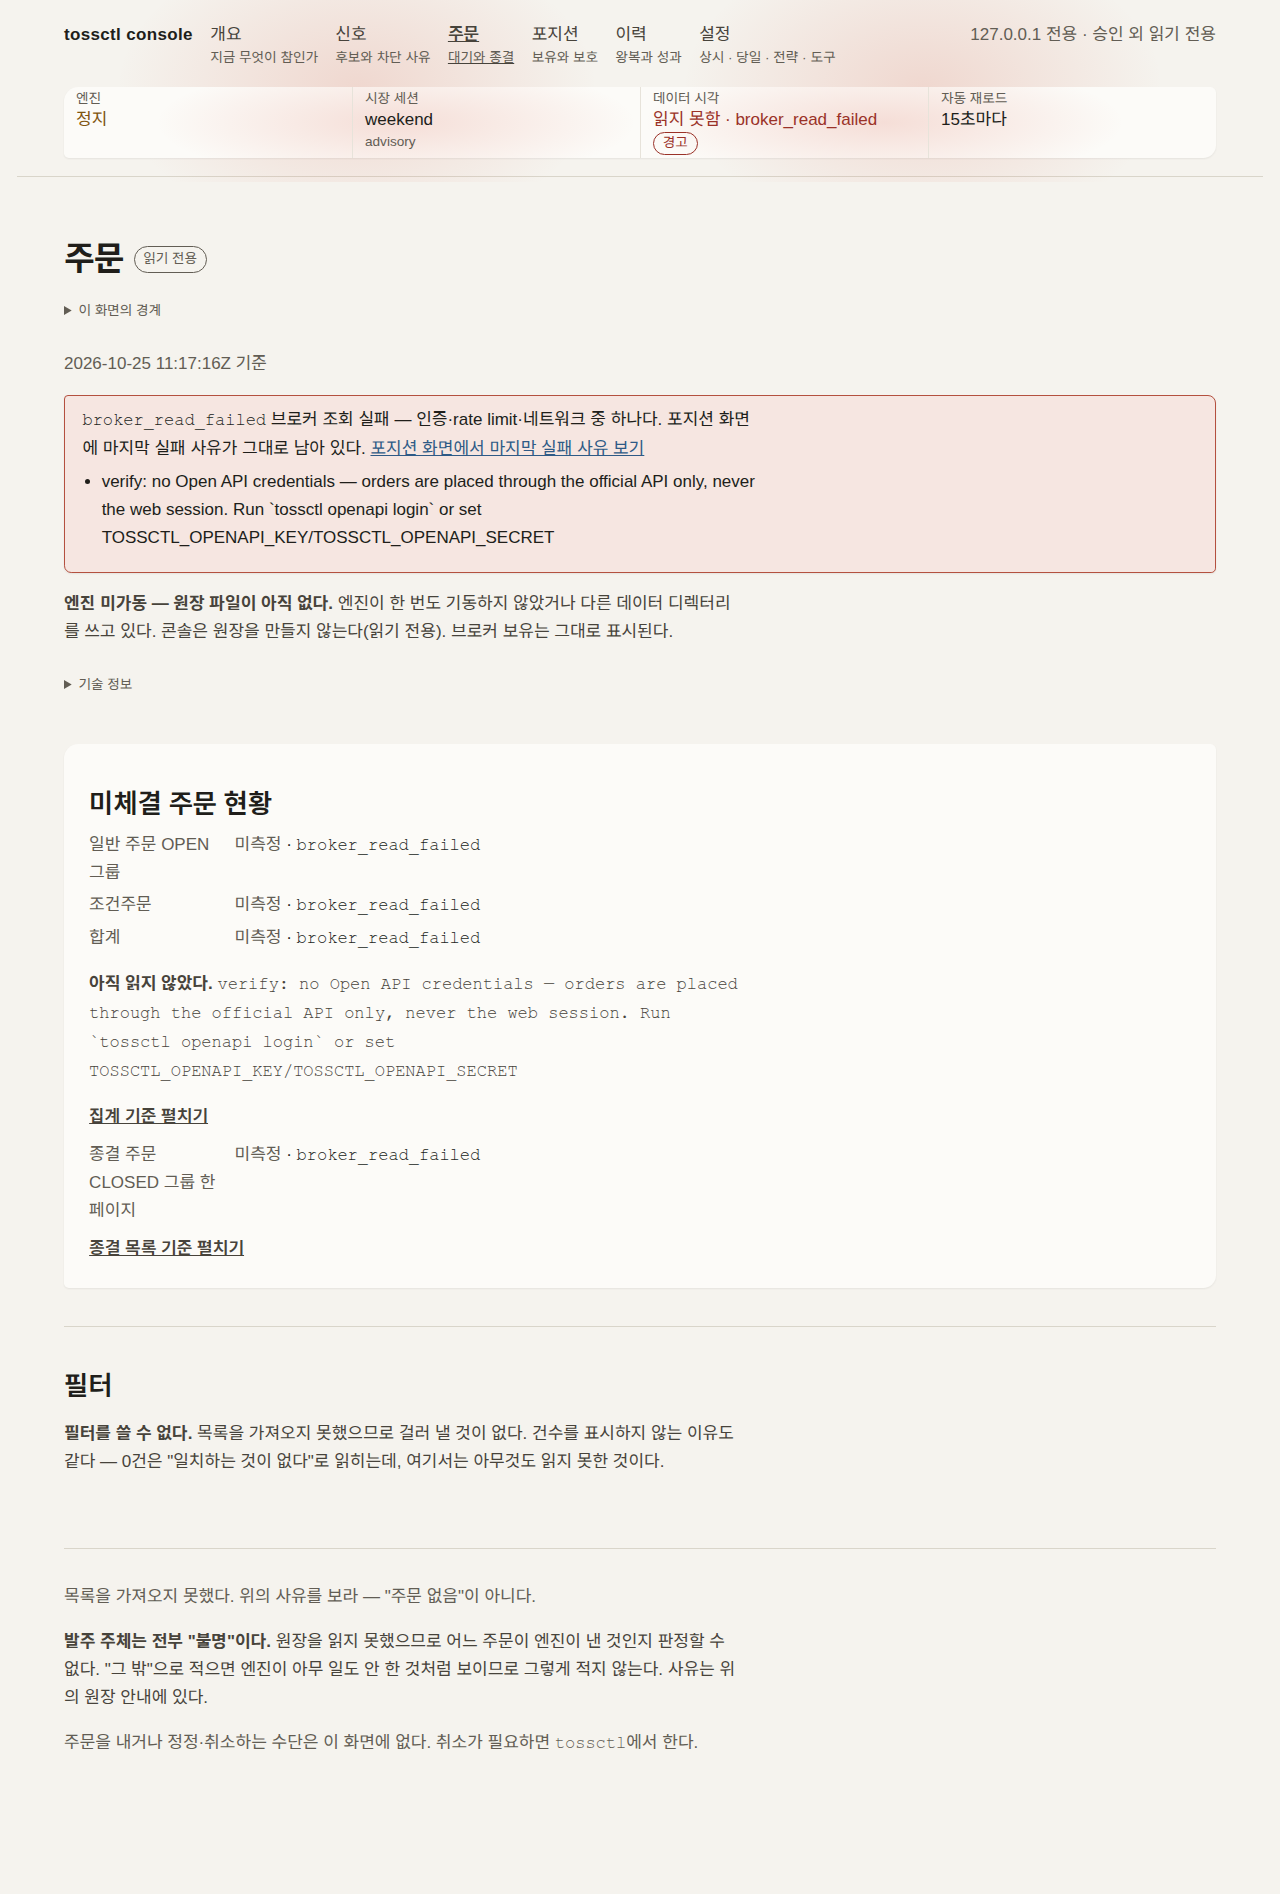
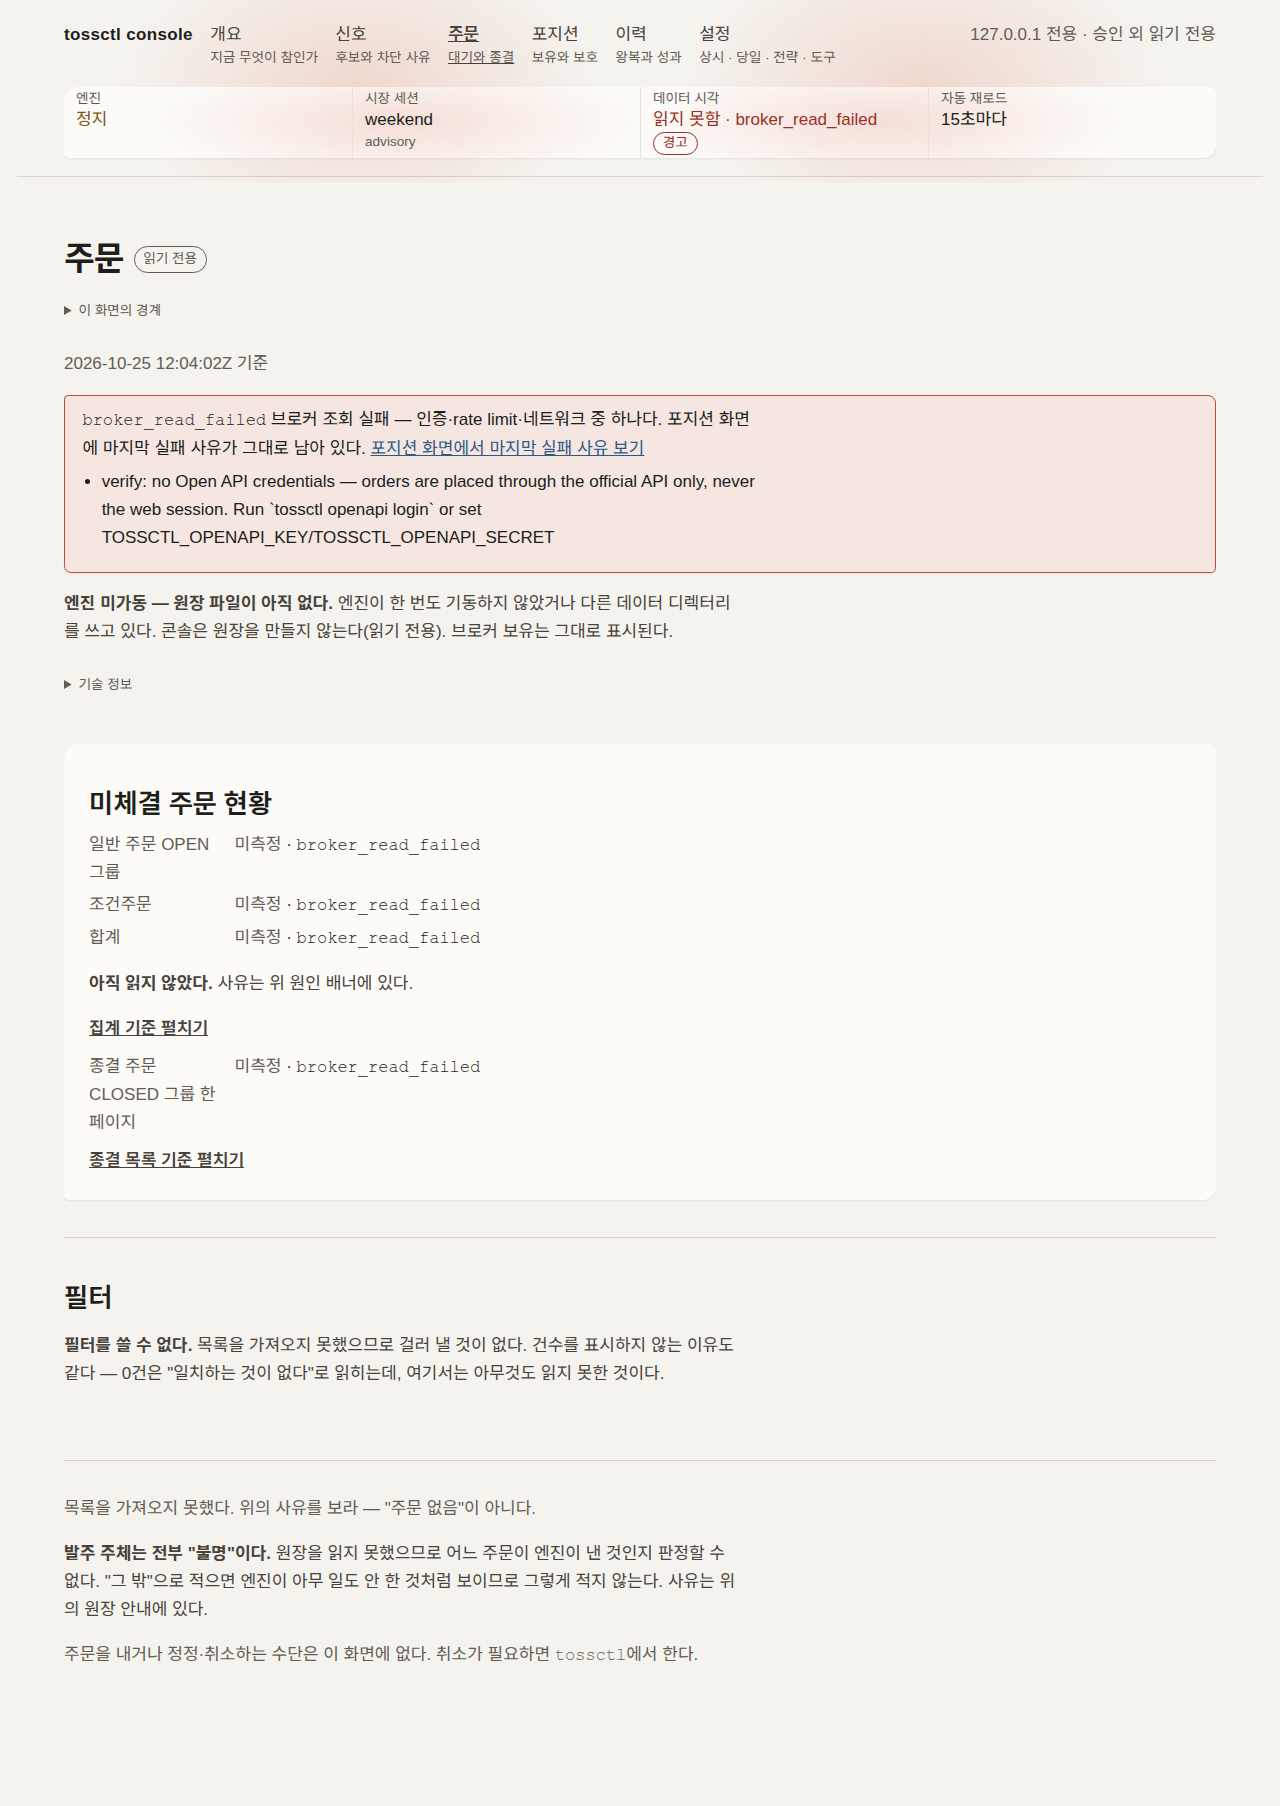
fix(a173): 원인 배너 차단/상태 분리·산문 폭 CSS 단순화·주문 원문 오류 1회·리뷰 기록 [a173 4.5]

diff --git a/internal/console/a173_common_cleanup_test.go b/internal/console/a173_common_cleanup_test.go
@@ -136,6 +136,25 @@ func TestEachUnmeasuredCauseIsExplainedOnce(t *testing.T) {
 	}
 }
 
+// TestCauseBannerSplitsBlockingFromStateNotes — 읽기 실패는 .danger 상자, 상태 설명은 상자 없는 .aside (spec 「알림은 세 단계」).
+func TestCauseBannerSplitsBlockingFromStateNotes(t *testing.T) {
+	page := a173Fixtures(t)[0].get("/dashboard") // 개요: seam_unwired + journal_unreadable 가 함께 나온다.
+	if n := strings.Count(page, `class="danger cause-banner"`); n != 1 {
+		t.Errorf(".danger.cause-banner %d개, 1개여야 한다", n)
+	}
+	if n := strings.Count(page, `class="aside cause-banner"`); n != 1 {
+		t.Errorf(".aside.cause-banner %d개, 1개여야 한다", n)
+	}
+	danger := page[strings.Index(page, `class="danger cause-banner"`):]
+	danger = danger[:strings.Index(danger, "</div>")]
+	if !strings.Contains(danger, "journal_unreadable") || strings.Contains(danger, "seam_unwired") {
+		t.Errorf("차단 묶음은 읽기 실패만 담아야 한다: %.200s", danger)
+	}
+	if strings.Index(page, `class="danger cause-banner"`) > strings.Index(page, `class="aside cause-banner"`) {
+		t.Error("차단 묶음이 먼저 나와야 한다")
+	}
+}
+
 // --- ② 알림 3단계 -----------------------------------------------------------------------
 
 var a173Box = regexp.MustCompile(`class="[^"]*\b(?:notice|danger)\b`)

diff --git a/internal/console/causes.go b/internal/console/causes.go
@@ -38,6 +38,26 @@ var causeLinks = map[unmeasuredReason][2]string{
 
 var readingType = reflect.TypeOf(reading{})
 
+// blockingCauses 는 읽기 실패 사유임(차단 상자 `.danger`). 나머지는 상태 설명이라 상자 없는 `.aside`.
+// 스펙 「알림은 세 단계로만 쓰인다」의 차단 정의(읽기 실패)에 맞춤.
+var blockingCauses = map[unmeasuredReason]bool{
+	reasonJournalUnreadable: true, reasonBrokerReadFailed: true, reasonConfigUnreadable: true,
+	reasonJournalValueUnparsable: true, reasonDiscoveryUnreadable: true,
+}
+
+func causesBlocking(view any) []causeBanner { return filterCauses(view, true) }
+func causesNote(view any) []causeBanner     { return filterCauses(view, false) }
+
+func filterCauses(view any, blocking bool) []causeBanner {
+	var out []causeBanner
+	for _, b := range causesOf(view) {
+		if blockingCauses[unmeasuredReason(b.Code)] == blocking {
+			out = append(out, b)
+		}
+	}
+	return out
+}
+
 // causesOf 는 뷰 모델 안의 미측정 reading 을 사유 코드별로 모아 배너 목록을 돌려줌.
 // 뷰 모델은 템플릿이 읽는 값이라 필드가 전부 내보내진(exported) 것이어야 하고, 내보내지지 않은
 // 필드는 템플릿도 못 읽으므로 건너뜀.

diff --git a/internal/console/templates_overview.go b/internal/console/templates_overview.go
@@ -28,8 +28,14 @@ const overviewTemplates = `
   "causes" 는 읽지 못한 원인의 설명을 화면당 한 번 그림(change a173). 칸은 사유 코드만 갖는다.
   차단(읽기 실패) 하나의 상자 안에 사유별 문단을 모아 상자 수를 늘리지 않는다.
 */}}
-{{define "causes"}}{{with causes .}}
+{{define "causes"}}{{with causesBlocking .}}
 <div class="danger cause-banner" role="status">
+  {{range .}}<p data-cause="{{.Code}}"><code>{{.Code}}</code> {{.Sentence}}{{if .Href}} <a href="{{.Href}}">{{.HrefLabel}}</a>{{end}}</p>
+  {{with .Details}}<ul>{{range .}}<li>{{.}}</li>{{end}}</ul>{{end}}
+  {{end}}
+</div>
+{{end}}{{with causesNote .}}
+<div class="aside cause-banner">
   {{range .}}<p data-cause="{{.Code}}"><code>{{.Code}}</code> {{.Sentence}}{{if .Href}} <a href="{{.Href}}">{{.HrefLabel}}</a>{{end}}</p>
   {{with .Details}}<ul>{{range .}}<li>{{.}}</li>{{end}}</ul>{{end}}
   {{end}}

diff --git a/internal/console/templates_orders.go b/internal/console/templates_orders.go
@@ -99,10 +99,10 @@ const ordersTemplates = `
 <p class="muted">브로커 조회 {{.Broker.TakenAt}} ({{.Broker.AgeSeconds}}초 전) ·
 갱신 1회 = 미체결 1콜 + 종결 1콜 + 조건주문 1콜{{if .Broker.Stale}} ·
 <strong class="bad">캐시 TTL({{.Broker.TTLSeconds}}초)을 넘었다 — 지금 계좌의 값이 아니다</strong>{{end}}{{if .Broker.Error}} ·
-<span class="bad">마지막 갱신 실패: {{.Broker.Error}}</span>{{end}}</p>
+<span class="bad" title="{{.Broker.Error}}">마지막 갱신 실패 — 사유는 이 문장의 title 과 위 원인 배너에 있다</span>{{end}}</p>
 {{else}}
 <p class="aside"><strong>아직 읽지 않았다.</strong>
-{{if .Broker.Error}}<code>{{.Broker.Error}}</code>{{end}}</p>
+{{if .Broker.Error}}<span title="{{.Broker.Error}}">사유는 위 원인 배너에 있다.</span>{{end}}</p>
 {{end}}
 {{end}}
 

diff --git a/internal/console/templates.go b/internal/console/templates.go
@@ -128,7 +128,8 @@ button:disabled { cursor: not-allowed; opacity: 0.65; }
 .secondary-link { background: transparent; color: var(--ink-1); }
 form { display: inline; }
 /* 산문 줄 길이: 한 줄 70자 안팎(42rem). 표·폼·코드 블록·그리드는 제외 */
-main p:not(td p, th p, .console-status p), main li, main details > :not(summary) { max-inline-size: 42rem; }
+main p, main li, main details > :not(summary) { max-inline-size: 42rem; }
+td p, th p, .console-status p { max-inline-size: none; }
 .page-intro { max-inline-size: 42rem; }
 /* 경계 배지는 h1 바로 옆, 접힌 경계·기술 정보는 본문보다 한 단 낮은 보조선 */
 h1:has(+ .scope) { display: inline-block; margin-inline-end: var(--space-2); }

diff --git a/internal/console/pages.go b/internal/console/pages.go
@@ -36,8 +36,9 @@ import (
 // verifylive/redo.go) — so a table asking the verdict would have hidden the one
 // row that unblocks the chain while the button re-ran it.
 var pageFuncs = template.FuncMap{
-	"causes": causesOf,
-	"add1":   func(value int) int { return value + 1 },
+	"causesBlocking": causesBlocking,
+	"causesNote":     causesNote,
+	"add1":           func(value int) int { return value + 1 },
 	"inRedo": func(set []verifylive.StepID, id verifylive.StepID) bool {
 		for _, s := range set {
 			if s == id {

diff --git a/openspec/changes/a173-console-ux-common-cleanup/review.md b/openspec/changes/a173-console-ux-common-cleanup/review.md
@@ -20,4 +20,14 @@
 - `openspec validate a173-console-ux-common-cleanup --strict` 는 이 구현자가 다시 돌리지 않았다(Manager 확인 필요).
 - 기존 함수 편집 7건(번들 필요): tasks.md 3.1 목록. FLM/BTM 면제 불가 — 종결 단계에서 Opus 가 번들 작성.
 - 고정 리터럴 시험 수정 1건: tasks.md 「고정 리터럴 시험 수정 기록」.
-- gstack review 미실행(tasks 4.5 미체크).
+
+## 구현 리뷰 (gstack `review` 경량판, 2026-10-25 — diff 직접 읽기 + Manager 판정)
+스킬의 Review Army·adversarial·Greptile·텔레메트리는 돌리지 않았다. 차단급(P0/P1) 없음. 범위 점검: DRIFT 없음.
+1. 배너 등급(P2) — **수용·수정**: `causes` 를 읽기 실패(`journal_unreadable`·`broker_read_failed`·`config_unreadable`·`journal_value_unparsable`·`discovery_unreadable`)=`.danger.cause-banner` 와 상태 설명(`seam_unwired`·`never_fetched`·`verify_suspended`)=`.aside.cause-banner` 로 분리. 시험 `TestCauseBannerSplitsBlockingFromStateNotes`.
+2. `causesOf` 포인터 순회(P2) — **수용·위험 기록**: `causes` 는 값 스냅숏 뷰 모델(overview·orders·signals `Snap`)에서만 호출. `/verify*` 의 `*runView` 가 복사본인지는 확인하지 않았다 — 그래서 그 화면에는 걸지 않는다. `docs/console-design.md` 에 규칙 한 줄.
+3. 복합 `:not()`(P2) — **수용·수정**: `main p, main li, main details > :not(summary)` + `td p, th p, .console-status p { max-inline-size: none }` 두 규칙. 재측정 가장 긴 `<p>` 672px 유지.
+4. advisory `title` 한계(P3) — **수용**(스펙 574~612 는 advisory 표기만 요구, 접근성 한계는 review-after.md 기록 유지).
+5. `/orders` 영문 원문 2곳(P3) — **수용·수정**(원인 1회 규칙은 a173 범위): `orderbroker` 두 곳은 원문을 빼고 `title` + 위 배너로. 기존 시험은 그 자리 원문을 단언하지 않아 고정 리터럴 수정 0.
+6~8. 시험 서버 다수 생성·문장 쪼개짐 시 FAIL 방향·`handleReport` 문자열 치환 의존(P3) — **수용**(회귀는 `/report` 본문 경로 0 시험이 잡는다).
+9. `<nav>` 안 `<details>`(P3) — **a175 이월**.
+- 추가 확인: `/verify-console` 의 `<details class="scope">` 안에 경계 문단("이 화면은 로컬 파일만 읽는다…")이 실제로 들어 있음(렌더 덤프로 확인).

diff --git a/docs/console-design.md b/docs/console-design.md
@@ -56,7 +56,7 @@
 
 ## 정보 구조 규칙 (change a173)
 
-- **원인 1회**: 값을 읽지 못한 원인(`unmeasuredReason`)의 설명 문장은 화면당 한 번 `causes` 배너(상자 하나)에만 쓴다. 각 칸은 `미측정 · <사유 코드>`(`.muted.unmeasured` + `<code>`)만 남기고 구체 사유는 칸 `title`·배너 목록에 둔다. 새 칸을 만들면 뷰 모델에 `reading` 필드(내보내짐)로 두어야 배너가 훑는다.
+- **원인 1회**: 값을 읽지 못한 원인(`unmeasuredReason`)의 설명 문장은 화면당 한 번 `causes` 배너(상자 하나)에만 쓴다. 각 칸은 `미측정 · <사유 코드>`(`.muted.unmeasured` + `<code>`)만 남기고 구체 사유는 칸 `title`·배너 목록에 둔다. 새 칸을 만들면 뷰 모델에 `reading` 필드(내보내짐)로 두어야 배너가 훑는다. 배너는 읽기 실패(`.danger.cause-banner`)와 상태 설명(`.aside.cause-banner`) 두 묶음. `{{template "causes" .}}` 는 복사본 뷰 모델에만 건다(공유 가변 포인터를 품은 페이지에는 걸지 않는다).
 - **알림 3단계**: `.danger` = 차단(읽기 실패·기동 거부), `.notice` = 결과가 따르는 사실(승인 대기·구버전 바이너리·저장 결과·비가역), `.aside` = 상자 없는 본문(경계·설명·빈 상태). 반영 시점은 저장 버튼 옆 `muted effect-timing` 한 줄. 한 화면의 떠 있는 상자 ≤ 3. 행 단위 표시(상태 알약·보조 지표)에는 `.notice`/`.danger` 를 쓰지 않는다(`status-pill warn`, `submetric bad|warn`).
 - **경계 배지**: `<h1>` 바로 뒤 `<span class="status-pill scope">읽기 전용|편집 가능</span>`, "이 화면은 ~하지 않는다" 류 경계 문단은 `<details class="scope"><summary>이 화면의 경계</summary>` 하나. 배지는 `<h1>` 밖.
 - **기술 정보**: change ID·절대경로·digest·SHA 는 `{{template "tech" 값}}`(`<details class="tech">`)로 접는다. 값은 DOM 에 남는다. 안전 상태(UNWIRED·OFF·미충족·stale)는 접지 않는다. `.notice`/`.danger` 는 `<details>` 안에 두지 않는다.

diff --git a/openspec/changes/a173-console-ux-common-cleanup/analysis/measure-table.md b/openspec/changes/a173-console-ux-common-cleanup/analysis/measure-table.md
@@ -1,11 +1,11 @@
 | 화면 | 높이(d) 전→후 | 상자(d) | 표시줄 d | 표시줄 m | 가장 긴 p(px) | 본문 ID | 본문 경로 |
 |---|---|---|---|---|---|---|---|
-| dashboard | 4507→4458 | 5→1 | 113→68 | 374→82 | 1152→672 | 0→0 | 3→0 |
+| dashboard | 4507→4453 | 5→1 | 113→68 | 374→82 | 1152→672 | 0→0 | 3→0 |
 | verify-console | 2153→2297 | 1→0 | 113→68 | 229→80 | 1152→672 | 0→0 | 4→0 |
 | positions | 981→903 | 3→1 | 203→71 | 374→82 | 1152→672 | 0→0 | 1→0 |
-| orders | 1886→1894 | 4→1 | 203→71 | 374→82 | 1152→672 | 0→0 | 1→0 |
+| orders | 1886→1806 | 4→1 | 203→71 | 374→82 | 1152→672 | 0→0 | 1→0 |
 | history | 1133→1151 | 2→0 | 113→68 | 229→80 | 1152→672 | 0→0 | 1→0 |
-| signals | 3006→3166 | 2→1 | 113→68 | 274→80 | 1152→672 | 0→0 | 0→0 |
+| signals | 3006→3134 | 2→0 | 113→68 | 274→80 | 1152→672 | 0→0 | 0→0 |
 | report | 900→900 | 0→0 | 113→68 | 229→80 | 0→0 | 0→0 | 1→0 |
 | verify | 5188→5235 | 1→0 | 113→68 | 229→80 | 1152→672 | 0→0 | 0→0 |
 | settings | 5008→5237 | 11→3 | 113→68 | 229→80 | 1152→672 | 0→0 | 0→0 |
